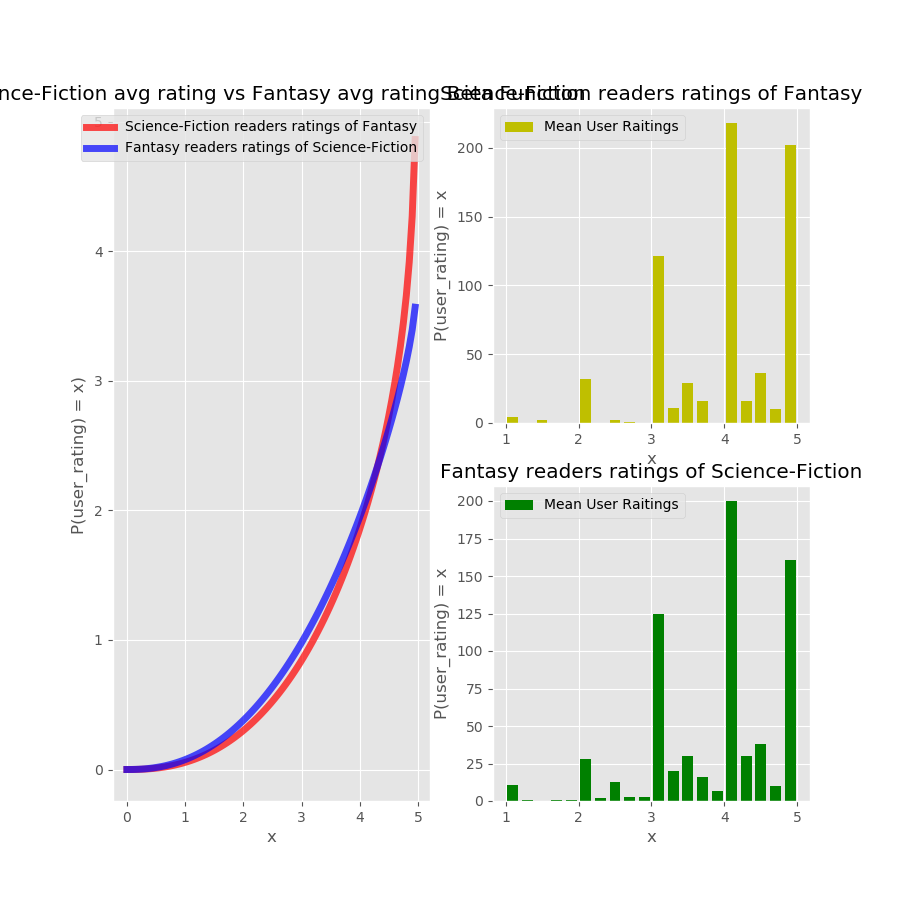
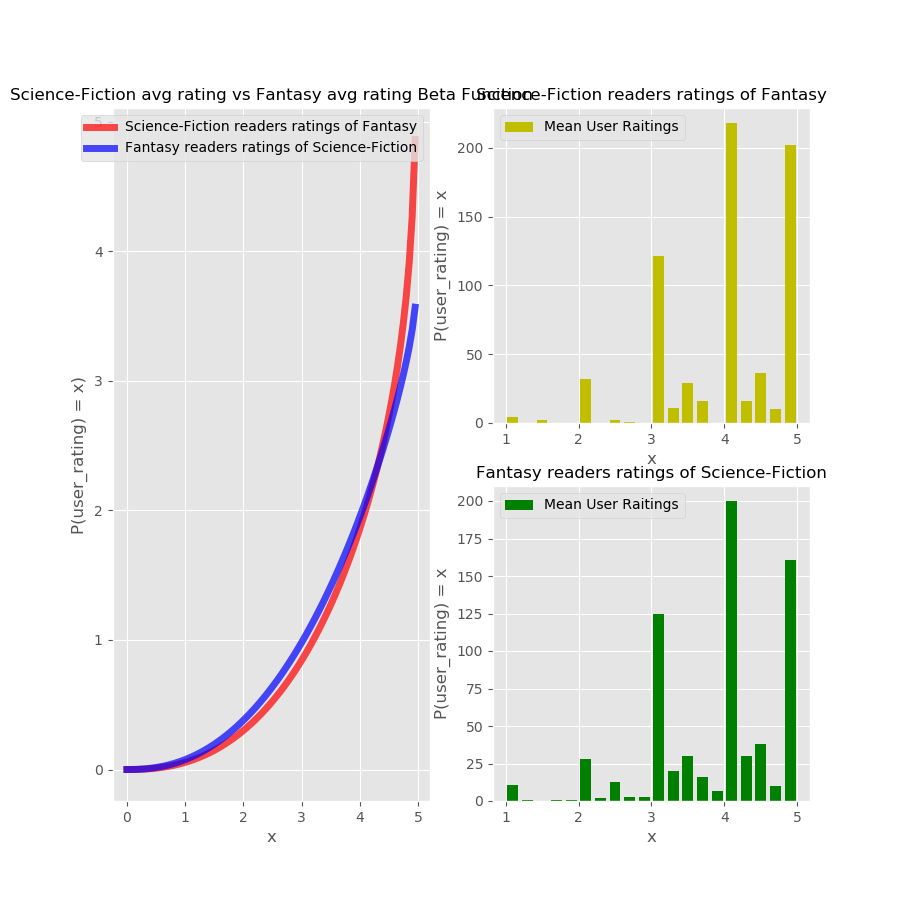
image font change

Changed region(s): [[0.0, 0.0933, 0.9644, 0.1244], [0.4978, 0.4978, 0.9644, 0.5289]]

diff --git a/src/BetaDist.py b/src/BetaDist.py
@@ -81,13 +81,13 @@ class Beta(object):
         #formating
         ax.set_ylabel('P(user_rating) = x)')
         ax.set_xlabel('x')
-        ax.set_title('{0} avg rating vs {1} avg rating Beta Function'.format(df1_name, df2_name))
+        ax.set_title('{0} avg rating vs {1} avg rating Beta Function'.format(df1_name, df2_name), fontsize=12)
         ax1.set_ylabel("P(user_rating) = x")
         ax1.set_xlabel("x")
-        ax1.set_title("{0} readers ratings of {1}".format(df1_name, df2_name))
+        ax1.set_title("{0} readers ratings of {1}".format(df1_name, df2_name), fontsize=12)
         ax2.set_ylabel("P(user_rating) = x")
         ax2.set_xlabel("x")
-        ax2.set_title("{0} readers ratings of {1}".format(df2_name, df1_name))
+        ax2.set_title("{0} readers ratings of {1}".format(df2_name, df1_name), fontsize=12)
         ax1.legend()
         ax2.legend()
         fig.savefig('images/fig_{}'.format(df1_name))

diff --git a/src/GenreTest.py b/src/GenreTest.py
@@ -155,7 +155,7 @@ def Linear_Regression(df, df1, df2, name):
 if __name__ == '__main__':
     #settings
     min_books_read = 1
-    plot = False
+    plot = True
     # plot = input("plot True or False: ")
     # if plot == 'True':
     #     plot = True
